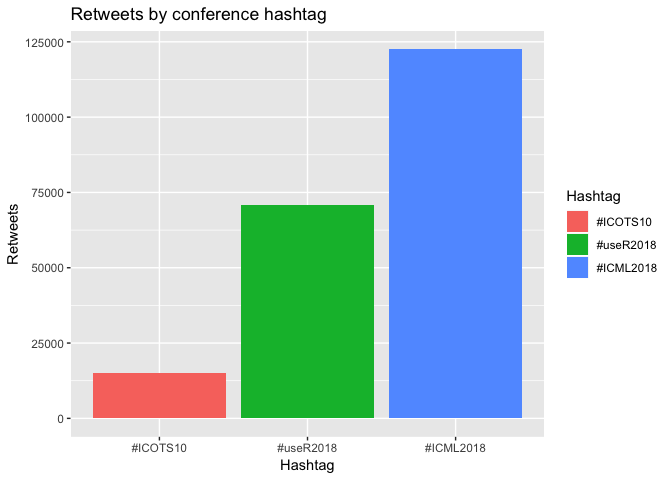
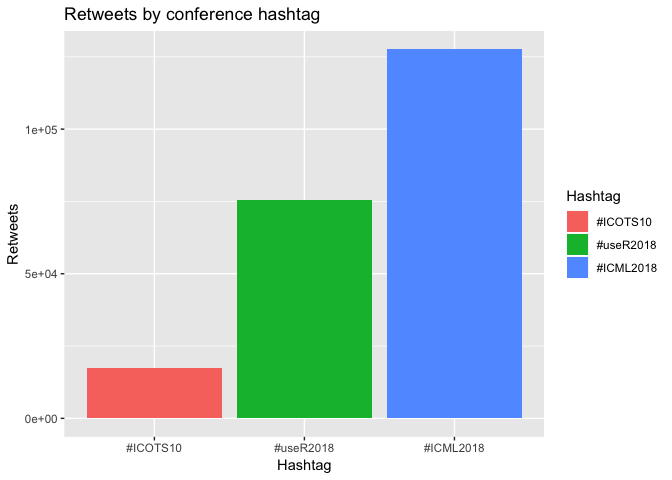
Final tweets

diff --git a/images/conferencetweets_files/figure-markdown_github/widgets/widget_user_emoji.html b/images/conferencetweets_files/figure-markdown_github/widgets/widget_user_emoji.html
@@ -16,12 +16,12 @@
 </head>
 <body style="background-color:white;">
 <div id="htmlwidget_container">
-  <div id="htmlwidget-7459d6a4c7c466d616c2" style="width:100%;height:500px;" class="datatables html-widget"></div>
+  <div id="htmlwidget-74ba921d51a8d4b37e08" style="width:100%;height:500px;" class="datatables html-widget"></div>
   <script>HTMLWidgets.pymChild = new pym.Child();HTMLWidgets.addPostRenderHandler(function(){
                                 setTimeout(function(){HTMLWidgets.pymChild.sendHeight();},100);
                             });</script>
 </div>
-<script type="application/json" data-for="htmlwidget-7459d6a4c7c466d616c2">{"x":{"filter":"none","data":[["1","2","3","4","5","6","7","8","9","10","11","12","13","14","15","16","17","18","19","20","21","22","23","24","25","26","27","28","29","30","31","32","33","34","35","36","37","38","39","40","41","42","43","44","45","46","47","48","49","50","51","52","53","54","55","56","57","58","59","60","61","62","63","64","65","66","67","68","69","70","71","72","73","74","75","76","77","78","79","80","81","82","83","84","85","86","87","88","89","90","91","92","93","94","95","96","97","98","99","100","101","102","103","104"],["📦","🏉","👌","😂","😍","👍","🌧","🔥","🤩","👏","🎉","🤣","👨","✅","🙌","♂","😎","😭","🏊","🎨","🎥","🏹","☑","😁","☺","😳","🤓","👧","👑","🍰","🌟","♀","🇦🇺","😀","😅","😆","🙄","😜","😢","👶","🤦","🙏","👟","🕸","🥄","🚦","⛴","✈","🕰","☀","🌩","⚡","✨","🏏","🎶","💡","🖌","📈","📉","🔁","🇿🇦","🏼","😊","🙂","🤗","😫","😨","😬","🤕","😻","🎅","🙅","🤷","👉","👆","👇","✌","💜","💣","💥","🧦","🐈","🦄","🐦","🥖","🍺","🥂","🚥","⌚","🌊","📲","💻","🖥","⌨","🖱","📽","📹","💯","🆒","🔺","🇫🇷","🇯🇵","👶🏼","🙌🏼"],["package","rugby football","OK hand","face with tears of joy","smiling face with heart-eyes","thumbs up","cloud with rain","fire","star-struck","clapping hands","party popper","rolling on the floor laughing","man","white heavy check mark","raising hands","male sign","smiling face with sunglasses","loudly crying face","person swimming","artist palette","movie camera","bow and arrow","ballot box with check","beaming face with smiling eyes","smiling face","flushed face","nerd face","girl","crown","shortcake","glowing star","female sign","flag: Australia","grinning face","grinning face with sweat","grinning squinting face","face with rolling eyes","winking face with tongue","crying face","baby","person facepalming","folded hands","running shoe","spider web","spoon","vertical traffic light","ferry","airplane","mantelpiece clock","sun","cloud with lightning","high voltage","sparkles","cricket game","musical notes","light bulb","paintbrush","chart increasing","chart decreasing","repeat button","flag: South Africa","medium-light skin tone","smiling face with smiling eyes","slightly smiling face","hugging face","tired face","fearful face","grimacing face","face with head-bandage","smiling cat face with heart-eyes","Santa Claus","person gesturing NO","person shrugging","backhand index pointing right","backhand index pointing up","backhand index pointing down","victory hand","purple heart","bomb","collision","socks","cat","unicorn face","bird","baguette bread","beer mug","clinking glasses","horizontal traffic light","watch","water wave","mobile phone with arrow","laptop computer","desktop computer","keyboard","computer mouse","film projector","video camera","hundred points","COOL button","red triangle pointed up","flag: France","flag: Japan","baby: medium-light skin tone","raising hands: medium-light skin tone"],[25,18,12,10,10,10,9,8,7,7,7,6,6,6,5,5,4,4,4,4,4,4,4,3,3,3,3,3,3,3,3,3,3,2,2,2,2,2,2,2,2,2,2,2,2,2,2,2,2,2,2,2,2,2,2,2,2,2,2,2,2,2,1,1,1,1,1,1,1,1,1,1,1,1,1,1,1,1,1,1,1,1,1,1,1,1,1,1,1,1,1,1,1,1,1,1,1,1,1,1,1,1,1,1],[1,2,3,5,5,5,7,8,10,10,10,13,13,13,16,16,20,20,20,20,20,20,20,28,28,28,28,28,28,28,28,28,28,48,48,48,48,48,48,48,48,48,48,48,48,48,48,48,48,48,48,48,48,48,48,48,48,48,48,48,48,48,84,84,84,84,84,84,84,84,84,84,84,84,84,84,84,84,84,84,84,84,84,84,84,84,84,84,84,84,84,84,84,84,84,84,84,84,84,84,84,84,84,84],[23,2,8,9,8,8,1,4,7,4,5,6,6,3,5,4,4,3,2,4,4,1,1,3,3,3,3,3,3,3,2,3,3,2,2,2,2,2,2,2,2,2,2,2,2,1,2,2,2,2,2,2,2,2,1,2,2,2,2,2,2,2,1,1,1,1,1,1,1,1,1,1,1,1,1,1,1,1,1,1,1,1,1,1,1,1,1,1,1,1,1,1,1,1,1,1,1,1,1,1,1,1,1,1],[1,42,4,2,4,4,81,14,6,14,10,8,8,22,10,14,14,22,42,14,14,81,81,22,22,22,22,22,22,22,42,22,22,42,42,42,42,42,42,42,42,42,42,42,42,81,42,42,42,42,42,42,42,42,81,42,42,42,42,42,42,42,81,81,81,81,81,81,81,81,81,81,81,81,81,81,81,81,81,81,81,81,81,81,81,81,81,81,81,81,81,81,81,81,81,81,81,81,81,81,81,81,81,81]],"container":"<table class=\"display\">\n  <thead>\n    <tr>\n      <th> <\/th>\n      <th>emoji<\/th>\n      <th>short_name<\/th>\n      <th>counts<\/th>\n      <th>rank<\/th>\n      <th>counts_single<\/th>\n      <th>rank_single<\/th>\n    <\/tr>\n  <\/thead>\n<\/table>","options":{"columnDefs":[{"className":"dt-right","targets":[3,4,5,6]},{"orderable":false,"targets":0}],"order":[],"autoWidth":false,"orderClasses":false}},"evals":[],"jsHooks":[]}</script>
-<script type="application/htmlwidget-sizing" data-for="htmlwidget-7459d6a4c7c466d616c2">{"viewer":{"width":"100%","height":350,"padding":0,"fill":false},"browser":{"width":"100%","height":500,"padding":0,"fill":false}}</script>
+<script type="application/json" data-for="htmlwidget-74ba921d51a8d4b37e08">{"x":{"filter":"none","data":[["1","2","3","4","5","6","7","8","9","10","11","12","13","14","15","16","17","18","19","20","21","22","23","24","25","26","27","28","29","30","31","32","33","34","35","36","37","38","39","40","41","42","43","44","45","46","47","48","49","50","51","52","53","54","55","56","57","58","59","60","61","62","63","64","65","66","67","68","69","70","71","72","73","74","75","76","77","78","79","80","81","82","83","84","85","86","87","88","89","90","91","92","93","94","95","96"],["📦","😂","😍","👍","👏","🔥","🤩","👌","🎉","👨","🙌","🤣","❤","😀","😎","😭","🎨","🎶","🎥","✅","☑","😁","☺","😳","🤓","👧","🙅","👑","🍰","🌟","♀","♂","🇦🇺","😅","😆","😜","😢","🤦","👆","✌","🙏","👟","🕸","✈","☀","🌩","⚡","✨","🏏","💡","🖌","🇫🇷","🇿🇦","😊","🙂","🤗","🙄","😫","🙃","😨","😬","😱","🤕","😻","👶","🎅","🤷","👉","👇","🤙","👋","💜","💣","💥","🧦","🐈","🐦","🥖","🍷","🍹","🍺","🥂","⛴","⌚","🌊","♥","📲","💻","🖥","⌨","🖱","📽","📹","💯","🔺","🇯🇵"],["package","face with tears of joy","smiling face with heart-eyes","thumbs up","clapping hands","fire","star-struck","OK hand","party popper","man","raising hands","rolling on the floor laughing","red heart","grinning face","smiling face with sunglasses","loudly crying face","artist palette","musical notes","movie camera","white heavy check mark","ballot box with check","beaming face with smiling eyes","smiling face","flushed face","nerd face","girl","person gesturing NO","crown","shortcake","glowing star","female sign","male sign","flag: Australia","grinning face with sweat","grinning squinting face","winking face with tongue","crying face","person facepalming","backhand index pointing up","victory hand","folded hands","running shoe","spider web","airplane","sun","cloud with lightning","high voltage","sparkles","cricket game","light bulb","paintbrush","flag: France","flag: South Africa","smiling face with smiling eyes","slightly smiling face","hugging face","face with rolling eyes","tired face","upside-down face","fearful face","grimacing face","face screaming in fear","face with head-bandage","smiling cat face with heart-eyes","baby","Santa Claus","person shrugging","backhand index pointing right","backhand index pointing down","call me hand","waving hand","purple heart","bomb","collision","socks","cat","bird","baguette bread","wine glass","tropical drink","beer mug","clinking glasses","ferry","watch","water wave","heart suit","mobile phone with arrow","laptop computer","desktop computer","keyboard","computer mouse","film projector","video camera","hundred points","red triangle pointed up","flag: Japan"],[26,12,11,9,9,8,7,7,7,6,6,5,5,4,4,4,4,4,4,4,4,3,3,3,3,3,3,3,3,3,3,3,3,2,2,2,2,2,2,2,2,2,2,2,2,2,2,2,2,2,2,2,2,1,1,1,1,1,1,1,1,1,1,1,1,1,1,1,1,1,1,1,1,1,1,1,1,1,1,1,1,1,1,1,1,1,1,1,1,1,1,1,1,1,1,1],[1,2,3,4,4,6,8,8,8,10,10,12,12,18,18,18,18,18,18,18,18,28,28,28,28,28,28,28,28,28,28,28,28,44,44,44,44,44,44,44,44,44,44,44,44,44,44,44,44,44,44,44,44,75,75,75,75,75,75,75,75,75,75,75,75,75,75,75,75,75,75,75,75,75,75,75,75,75,75,75,75,75,75,75,75,75,75,75,75,75,75,75,75,75,75,75],[24,10,9,7,6,4,7,7,5,6,6,5,3,4,4,3,4,2,4,1,1,3,3,3,3,3,3,3,3,2,3,2,3,2,2,2,2,2,2,2,2,2,2,2,2,2,2,2,2,2,2,2,2,1,1,1,1,1,1,1,1,1,1,1,1,1,1,1,1,1,1,1,1,1,1,1,1,1,1,1,1,1,1,1,1,1,1,1,1,1,1,1,1,1,1,1],[1,2,3,5,8,14,5,5,10,8,8,10,22,14,14,22,14,40,14,74,74,22,22,22,22,22,22,22,22,40,22,40,22,40,40,40,40,40,40,40,40,40,40,40,40,40,40,40,40,40,40,40,40,74,74,74,74,74,74,74,74,74,74,74,74,74,74,74,74,74,74,74,74,74,74,74,74,74,74,74,74,74,74,74,74,74,74,74,74,74,74,74,74,74,74,74]],"container":"<table class=\"display\">\n  <thead>\n    <tr>\n      <th> <\/th>\n      <th>emoji<\/th>\n      <th>short_name<\/th>\n      <th>counts<\/th>\n      <th>rank<\/th>\n      <th>counts_single<\/th>\n      <th>rank_single<\/th>\n    <\/tr>\n  <\/thead>\n<\/table>","options":{"columnDefs":[{"className":"dt-right","targets":[3,4,5,6]},{"orderable":false,"targets":0}],"order":[],"autoWidth":false,"orderClasses":false}},"evals":[],"jsHooks":[]}</script>
+<script type="application/htmlwidget-sizing" data-for="htmlwidget-74ba921d51a8d4b37e08">{"viewer":{"width":"100%","height":350,"padding":0,"fill":false},"browser":{"width":"100%","height":500,"padding":0,"fill":false}}</script>
 </body>
 </html>

diff --git a/images/conferencetweets_files/figure-markdown_github/widgets/widget_icml_emoji.html b/images/conferencetweets_files/figure-markdown_github/widgets/widget_icml_emoji.html
@@ -16,12 +16,12 @@
 </head>
 <body style="background-color:white;">
 <div id="htmlwidget_container">
-  <div id="htmlwidget-f8e272e78b888968af23" style="width:100%;height:500px;" class="datatables html-widget"></div>
+  <div id="htmlwidget-5b2fa7a5ea0517ee7fc3" style="width:100%;height:500px;" class="datatables html-widget"></div>
   <script>HTMLWidgets.pymChild = new pym.Child();HTMLWidgets.addPostRenderHandler(function(){
                                 setTimeout(function(){HTMLWidgets.pymChild.sendHeight();},100);
                             });</script>
 </div>
-<script type="application/json" data-for="htmlwidget-f8e272e78b888968af23">{"x":{"filter":"none","data":[["1","2","3","4","5","6","7","8","9","10","11","12","13","14","15","16","17","18","19","20","21","22","23","24","25","26","27","28","29","30","31","32"],["🔥","😂","😄","😎","🤔","😔","🙌","✈","✔","🇸🇪","😁","🤣","😅","😆","😉","😞","🤪","👻","🤖","💪","👇","👏","❤","☀","🌩","⚡","🎁","⚽","💯","🇫🇷","👏🏻","🏻"],["fire","face with tears of joy","grinning face with smiling eyes","smiling face with sunglasses","thinking face","pensive face","raising hands","airplane","heavy check mark","flag: Sweden","beaming face with smiling eyes","rolling on the floor laughing","grinning face with sweat","grinning squinting face","winking face","disappointed face","zany face","ghost","robot face","flexed biceps","backhand index pointing down","clapping hands","red heart","sun","cloud with lightning","high voltage","wrapped gift","soccer ball","hundred points","flag: France","clapping hands: light skin tone","light skin tone"],[9,4,3,2,2,2,2,2,2,2,1,1,1,1,1,1,1,1,1,1,1,1,1,1,1,1,1,1,1,1,1,1],[1,2,3,7,7,7,7,7,7,7,22,22,22,22,22,22,22,22,22,22,22,22,22,22,22,22,22,22,22,22,22,22],[3,3,3,2,2,2,2,2,1,2,1,1,1,1,1,1,1,1,1,1,1,1,1,1,1,1,1,1,1,1,1,1],[2,2,2,6,6,6,6,6,21,6,21,21,21,21,21,21,21,21,21,21,21,21,21,21,21,21,21,21,21,21,21,21]],"container":"<table class=\"display\">\n  <thead>\n    <tr>\n      <th> <\/th>\n      <th>emoji<\/th>\n      <th>short_name<\/th>\n      <th>counts<\/th>\n      <th>rank<\/th>\n      <th>counts_single<\/th>\n      <th>rank_single<\/th>\n    <\/tr>\n  <\/thead>\n<\/table>","options":{"columnDefs":[{"className":"dt-right","targets":[3,4,5,6]},{"orderable":false,"targets":0}],"order":[],"autoWidth":false,"orderClasses":false}},"evals":[],"jsHooks":[]}</script>
-<script type="application/htmlwidget-sizing" data-for="htmlwidget-f8e272e78b888968af23">{"viewer":{"width":"100%","height":350,"padding":0,"fill":false},"browser":{"width":"100%","height":500,"padding":0,"fill":false}}</script>
+<script type="application/json" data-for="htmlwidget-5b2fa7a5ea0517ee7fc3">{"x":{"filter":"none","data":[["1","2","3","4","5","6","7","8","9","10","11","12","13","14","15","16","17","18","19","20","21","22","23","24","25","26","27","28","29","30","31","32"],["🔥","😂","😄","😎","🤔","😔","🙌","✈","✔","🇸🇪","😁","🤣","😅","😆","😉","😞","🤪","👻","🤖","💪","👇","👏","❤","☀","🌩","⚡","🎁","⚽","💯","🇫🇷","👏🏻","🏻"],["fire","face with tears of joy","grinning face with smiling eyes","smiling face with sunglasses","thinking face","pensive face","raising hands","airplane","heavy check mark","flag: Sweden","beaming face with smiling eyes","rolling on the floor laughing","grinning face with sweat","grinning squinting face","winking face","disappointed face","zany face","ghost","robot face","flexed biceps","backhand index pointing down","clapping hands","red heart","sun","cloud with lightning","high voltage","wrapped gift","soccer ball","hundred points","flag: France","clapping hands: light skin tone","light skin tone"],[8,4,3,2,2,2,2,2,2,2,1,1,1,1,1,1,1,1,1,1,1,1,1,1,1,1,1,1,1,1,1,1],[1,2,3,7,7,7,7,7,7,7,22,22,22,22,22,22,22,22,22,22,22,22,22,22,22,22,22,22,22,22,22,22],[2,3,3,2,2,2,2,2,1,2,1,1,1,1,1,1,1,1,1,1,1,1,1,1,1,1,1,1,1,1,1,1],[6,2,2,6,6,6,6,6,21,6,21,21,21,21,21,21,21,21,21,21,21,21,21,21,21,21,21,21,21,21,21,21]],"container":"<table class=\"display\">\n  <thead>\n    <tr>\n      <th> <\/th>\n      <th>emoji<\/th>\n      <th>short_name<\/th>\n      <th>counts<\/th>\n      <th>rank<\/th>\n      <th>counts_single<\/th>\n      <th>rank_single<\/th>\n    <\/tr>\n  <\/thead>\n<\/table>","options":{"columnDefs":[{"className":"dt-right","targets":[3,4,5,6]},{"orderable":false,"targets":0}],"order":[],"autoWidth":false,"orderClasses":false}},"evals":[],"jsHooks":[]}</script>
+<script type="application/htmlwidget-sizing" data-for="htmlwidget-5b2fa7a5ea0517ee7fc3">{"viewer":{"width":"100%","height":350,"padding":0,"fill":false},"browser":{"width":"100%","height":500,"padding":0,"fill":false}}</script>
 </body>
 </html>

diff --git a/images/conferencetweets_files/figure-markdown_github/widgets/widget_icots_emoji.html b/images/conferencetweets_files/figure-markdown_github/widgets/widget_icots_emoji.html
@@ -16,12 +16,12 @@
 </head>
 <body style="background-color:white;">
 <div id="htmlwidget_container">
-  <div id="htmlwidget-c9df82c92d497daadafe" style="width:100%;height:500px;" class="datatables html-widget"></div>
+  <div id="htmlwidget-3ded16fe8a96009df426" style="width:100%;height:500px;" class="datatables html-widget"></div>
   <script>HTMLWidgets.pymChild = new pym.Child();HTMLWidgets.addPostRenderHandler(function(){
                                 setTimeout(function(){HTMLWidgets.pymChild.sendHeight();},100);
                             });</script>
 </div>
-<script type="application/json" data-for="htmlwidget-c9df82c92d497daadafe">{"x":{"filter":"none","data":[["1","2","3","4","5","6","7","8","9","10","11","12","13","14","15","16","17","18","19","20","21"],["😍","🔥","👏","😂","😀","❤","🐱","⚡","🎨","🎼","🙂","😔","😢","👩","🗣","💥","🏫","🗼","🎸","📽","🇫🇷"],["smiling face with heart-eyes","fire","clapping hands","face with tears of joy","grinning face","red heart","cat face","high voltage","artist palette","musical score","slightly smiling face","pensive face","crying face","woman","speaking head","collision","school","Tokyo tower","guitar","film projector","flag: France"],[8,6,5,3,2,2,2,2,2,2,1,1,1,1,1,1,1,1,1,1,1],[1,2,3,4,8,8,8,8,8,8,16,16,16,16,16,16,16,16,16,16,16],[4,2,1,3,2,2,2,1,2,2,1,1,1,1,1,1,1,1,1,1,1],[1,6,15,2,6,6,6,15,6,6,15,15,15,15,15,15,15,15,15,15,15]],"container":"<table class=\"display\">\n  <thead>\n    <tr>\n      <th> <\/th>\n      <th>emoji<\/th>\n      <th>short_name<\/th>\n      <th>counts<\/th>\n      <th>rank<\/th>\n      <th>counts_single<\/th>\n      <th>rank_single<\/th>\n    <\/tr>\n  <\/thead>\n<\/table>","options":{"columnDefs":[{"className":"dt-right","targets":[3,4,5,6]},{"orderable":false,"targets":0}],"order":[],"autoWidth":false,"orderClasses":false}},"evals":[],"jsHooks":[]}</script>
-<script type="application/htmlwidget-sizing" data-for="htmlwidget-c9df82c92d497daadafe">{"viewer":{"width":"100%","height":350,"padding":0,"fill":false},"browser":{"width":"100%","height":500,"padding":0,"fill":false}}</script>
+<script type="application/json" data-for="htmlwidget-3ded16fe8a96009df426">{"x":{"filter":"none","data":[["1","2","3","4","5","6","7","8","9","10","11","12","13","14","15","16","17","18","19","20","21","22"],["😍","🔥","👏","😂","😀","❤","💜","🐱","⚡","🎨","🎼","🙂","😔","😢","👩","🗣","💥","🏫","🗼","🎸","📽","🇫🇷"],["smiling face with heart-eyes","fire","clapping hands","face with tears of joy","grinning face","red heart","purple heart","cat face","high voltage","artist palette","musical score","slightly smiling face","pensive face","crying face","woman","speaking head","collision","school","Tokyo tower","guitar","film projector","flag: France"],[8,6,5,3,2,2,2,2,2,2,2,1,1,1,1,1,1,1,1,1,1,1],[1,2,3,4,8,8,8,8,8,8,8,17,17,17,17,17,17,17,17,17,17,17],[4,2,1,3,2,2,2,2,1,2,2,1,1,1,1,1,1,1,1,1,1,1],[1,6,16,2,6,6,6,6,16,6,6,16,16,16,16,16,16,16,16,16,16,16]],"container":"<table class=\"display\">\n  <thead>\n    <tr>\n      <th> <\/th>\n      <th>emoji<\/th>\n      <th>short_name<\/th>\n      <th>counts<\/th>\n      <th>rank<\/th>\n      <th>counts_single<\/th>\n      <th>rank_single<\/th>\n    <\/tr>\n  <\/thead>\n<\/table>","options":{"columnDefs":[{"className":"dt-right","targets":[3,4,5,6]},{"orderable":false,"targets":0}],"order":[],"autoWidth":false,"orderClasses":false}},"evals":[],"jsHooks":[]}</script>
+<script type="application/htmlwidget-sizing" data-for="htmlwidget-3ded16fe8a96009df426">{"viewer":{"width":"100%","height":350,"padding":0,"fill":false},"browser":{"width":"100%","height":500,"padding":0,"fill":false}}</script>
 </body>
 </html>

diff --git a/_posts/2018-07-11-icots10-tweets.md b/_posts/2018-07-11-icots10-tweets.md
@@ -7,16 +7,6 @@ tags:
   - social-media
 ---
 
-A tweet comparing ICML and useR tweets got me thinking, and I've wanted to use the `twitteR` or `rtweet` package for a while...
-
-<blockquote class="twitter-tweet" data-lang="en">
-<p lang="en" dir="ltr">
-How does <a href="https://twitter.com/hashtag/ICOTS10?src=hash&amp;ref_src=twsrc%5Etfw">\#ICOTS10</a> measure up? <a href="https://t.co/NUC3k2XAQK">https://t.co/NUC3k2XAQK</a>
-</p>
-— Kelly Bodwin (@KellyBodwin) <a href="https://twitter.com/KellyBodwin/status/1016743797550485505?ref_src=twsrc%5Etfw">July 10, 2018</a>
-</blockquote>
-<script async src="https://platform.twitter.com/widgets.js" charset="utf-8"></script>
-
 -   [Number of tweets by conference](#number-of-tweets-by-conference)
 -   [How about number of retweets by conference?](#how-about-number-of-retweets-by-conference)
 -   [Number of favourites?](#number-of-favourites)
@@ -26,12 +16,23 @@ How does <a href="https://twitter.com/hashtag/ICOTS10?src=hash&amp;ref_src=twsrc
 -   [Emojis ❤](#emojis)
 -   [Checking if we can scrape the emoji lists](#checking-if-we-can-scrape-the-emoji-lists)
 -   [Scraping the emoji lists](#scraping-the-emoji-lists)
--   [Which emoji were the most popular?](#which-emoji-were-the most-popular)
+-   [Which emoji were the most popular?](#which-emoji-were-the-most-popular)
+    -   [Top \#ICOTS10 emojis](#top-icots10-emojis)
+    -   [Top \#useR2018 emoji](#top-user2018-emoji)
+    -   [Top \#ICML2018 emoji](#top-icml2018-emoji)
 -   [More from ICOTS](#more-from-icots)
--   [Vanity time: My best tweets?](#vanity-time-my-best-tweets)
+-   [Vanity time: My best tweet?](#vanity-time-my-best-tweet)
 
+A tweet comparing ICML and useR tweets got me thinking, and I've wanted to use the `twitteR` or `rtweet` package for a while...
 
-*Last updated:* 13 Jul approx 12:20pm Kyoto time.
+<blockquote class="twitter-tweet" data-lang="en">
+<p lang="en" dir="ltr">
+How does <a href="https://twitter.com/hashtag/ICOTS10?src=hash&amp;ref_src=twsrc%5Etfw">\#ICOTS10</a> measure up? <a href="https://t.co/NUC3k2XAQK">https://t.co/NUC3k2XAQK</a>
+</p>
+— Kelly Bodwin (@KellyBodwin) <a href="https://twitter.com/KellyBodwin/status/1016743797550485505?ref_src=twsrc%5Etfw">July 10, 2018</a>
+</blockquote>
+<script async src="https://platform.twitter.com/widgets.js" charset="utf-8"></script>
+*Last updated:* 13 Jul approx 5:20pm Kyoto time.
 
 Here are some libraries we'll use. (Also note that I made a [GitHub gist with the code to get from the beginning to the first graph](https://gist.github.com/elb0/221b98cd7f89674515f2a25a6cde5859).) I couldn't get the authentication to work for `rtweet`, unfortunately.
 
@@ -65,7 +66,7 @@ Also note, the `n =` were chosen by trial and error. Very sophisticated.
 
 {% highlight r %}
 icots = searchTwitter('#icots10', n = 1150)
-user = searchTwitter('#useR2018', n = 4000)
+user = searchTwitter('#useR2018', n = 4200)
 icml = searchTwitter('#ICML2018', n = 4200)
 
 icots_tweets = twListToDF(icots) %>%
@@ -81,7 +82,7 @@ icml_tweets = twListToDF(icml) %>%
 
 There also seemed to be lots of tweets under the ICOTS hashtag that were about Ethereum, which wasn't really related to us. I've filtered these out.
 
-And you might want to look at the dates in a different timezone setting - these conferences are all in different countries.
+And you might want to look at the dates in a different timezone setting - these conferences are all in different countries and I've just taken the time and date created information directly from the Twitter API results with no transformation.
 
 {% highlight r %}
 all_tweets = rbind(icots_tweets, user_tweets, icml_tweets) %>%
@@ -123,7 +124,7 @@ all_noRT %>%
 
 ![]({{site.baseurl}}/images/conferencetweets_files/figure-markdown_github/graph-2.png)
 
-Can you spot which day ICOTS had a half day and went exploring Kyoto and Nara instead of tweeting?
+Can you spot which day ICOTS had a half-day and folks went off exploring Kyoto or to see the deer at Nara instead of tweeting?
 
 <blockquote class="twitter-tweet" data-lang="en">
 <p lang="en" dir="ltr">
@@ -199,7 +200,7 @@ topretweetuser = toptweet %>%
   filter(Hashtag == "#useR2018")
 {% endhighlight %}
 
-Check out the most retweeted [ICOTS tweet](https://twitter.com/anyuser/status/1017571630271352832), [ICML tweet](https://twitter.com/anyuser/status/1017567971869413376) and [useR tweet](https://twitter.com/anyuser/status/1017526028221198336).
+Check out the most retweeted [ICOTS tweet](https://twitter.com/anyuser/status/1017677311200649216), [ICML tweet](https://twitter.com/anyuser/status/1017685299046969344) and [useR tweet](https://twitter.com/anyuser/status/1017665435888582656).
 
 ### The most favourites?
 
@@ -219,7 +220,7 @@ topfavuser = topfav %>%
   filter(Hashtag == "#useR2018")
 {% endhighlight %}
 
-Check out the most favourited [ICOTS tweet](https://twitter.com/anyuser/status/1017244182035849216), [ICML tweet](https://twitter.com/anyuser/status/1017059295052140544) and [useR tweet](https://twitter.com/anyuser/status/1014967711036829696).
+Check out the most favourited [ICOTS tweet](https://twitter.com/anyuser/status/1017244182035849216), [ICML tweet](https://twitter.com/anyuser/status/1017059295052140544) and [useR tweet](https://twitter.com/anyuser/status/1016860465807257600).
 
 ### Emojis ❤
 
@@ -315,18 +316,30 @@ emoji_ref = emoji_ref_interim %>%
 
 One wrinkle is that as far as I can tell, you can't stop the Twitter app from truncating tweets that have been retweeted when using twitteR. This seems possible in rtweet - but I couldn't get the authentication working. More [on the GitHub issues page](https://github.com/mkearney/rtweet/issues/179).
 
-So, I'm just going to try to make this work out by getting the untruncated.
+So, I'm just going to try to make this work out by getting all the unique tweets ("RT @username" will be in front of the retweeted ones) and then removing all the tweets that had been truncated (i.e. retweeted). If my logic is right, this should leave us with the untruncated text of all tweets, just some of them will be the retweeted version. This shouldn't effect the emojis.
 
+I am also going to remove the midway summary tweet that I shared with the current top emojis as that would increase the counts for those tweets.
+
+<blockquote class="twitter-tweet" data-lang="en">
+<p lang="en" dir="ltr">
+Top 5ish emojis from three different conferences (as of 15 mins ago). Ranked 1-5ish, left to right, in ( ) means equal counts.<a href="https://twitter.com/hashtag/ICOTS10?src=hash&amp;ref_src=twsrc%5Etfw">\#ICOTS10</a> 😍👏(😂🐱🎨🎼)<a href="https://twitter.com/hashtag/useR2018?src=hash&amp;ref_src=twsrc%5Etfw">\#useR2018</a>: 📦👌(😍🌧)<a href="https://twitter.com/hashtag/ICML2018?src=hash&amp;ref_src=twsrc%5Etfw">\#ICML2018</a>: 🔥😂(😁🤔🙌✈✔)<br><br>Code: <a href="https://t.co/yixpezWy8p">https://t.co/yixpezWy8p</a><br>Of course, this tweet will mess it up!
+</p>
+— Liza Bolton (@Liza\_Bolton) <a href="https://twitter.com/Liza_Bolton/status/1017216200697212928?ref_src=twsrc%5Etfw">July 12, 2018</a>
+</blockquote>
+<script async src="https://platform.twitter.com/widgets.js" charset="utf-8"></script>
 {% highlight r %}
 unique_icots = icots_tweets %>%
+  filter(id != 1017216200697212928) %>%
   distinct(text, .keep_all=TRUE) %>%
   filter(truncated == FALSE)
 
-unique_user = user_tweets %>%
+unique_user = user_tweets %>%   
+  filter(id != 1017216200697212928) %>%
   distinct(text, .keep_all=TRUE) %>%
   filter(truncated == FALSE)
 
 unique_icml = icml_tweets %>%
+  filter(id != 1017216200697212928) %>%
   distinct(text, .keep_all=TRUE) %>%
   filter(truncated == FALSE)
 
@@ -372,7 +385,7 @@ emoji_prop_user = sum(!is.na(emoji_spread_user$`1`))/dim(unique_user)[1]
 emoji_prop_icml = sum(!is.na(emoji_spread_icml$`1`))/dim(unique_icml)[1]
 {% endhighlight %}
 
-So 7% of ICOTS tweets had at least one emoji in them, 13% of useR tweets and 3% of ICML tweets.
+So 7% of ICOTS tweets had at least one emoji in them, 10% of useR tweets and 3% of ICML tweets.
 
 ### Which emoji were the most popular?
 
@@ -420,8 +433,8 @@ emoji_counts_icots = emoji_ref %>%
 frameWidget(DT::datatable(emoji_counts_icots))
 {% endhighlight %}
 
-<iframe src="http://blog.dataembassy.co.nz/images/conferencetweets_files/figure-markdown-github/widgets/widget_icots_emoji.html>" width="100%" height="500" style="border: none;"&gt;</iframe>
-
+<iframe src="http://blog.dataembassy.co.nz/images/conferencetweets_files/figure-markdown_github/widgets/widget_icots_emoji.html" width="100%" height="500" style="border: none;">
+</iframe>
 #### Top \#useR2018 emoji
 
 {% highlight r %}
@@ -441,9 +454,8 @@ emoji_counts_user = emoji_ref %>%
 frameWidget(DT::datatable(emoji_counts_user))
 {% endhighlight %}
 
-<iframe src="http://blog.dataembassy.co.nz/images/conferencetweets_files/figure-markdown-github/widgets/widget_user_emoji.html" width="100%" height="500" style="border: none;">
+<iframe src="http://blog.dataembassy.co.nz/images/conferencetweets_files/figure-markdown_github/widgets/widget_user_emoji.html" width="100%" height="500" style="border: none;">
 </iframe>
-
 #### Top \#ICML2018 emoji
 
 {% highlight r %}
@@ -463,17 +475,8 @@ emoji_counts_icml = emoji_ref %>%
 frameWidget(DT::datatable(emoji_counts_icml))
 {% endhighlight %}
 
-<iframe src="http://blog.dataembassy.co.nz/images/conferencetweets_files/figure-markdown-github/widgets/widget_icml_emoji.html" width="100%" height="500" style="border: none;">
+<iframe src="http://blog.dataembassy.co.nz/images/conferencetweets_files/figure-markdown_github/widgets/widget_icml_emoji.html" width="100%" height="500" style="border: none;">
 </iframe>
-
-Previous tops here:
-<blockquote class="twitter-tweet" data-lang="en">
-<p lang="en" dir="ltr">
-Top 5ish emojis from three different conferences (as of 15 mins ago). Ranked 1-5ish, left to right, in ( ) means equal counts.<a href="https://twitter.com/hashtag/ICOTS10?src=hash&amp;ref_src=twsrc%5Etfw">\#ICOTS10</a> 😍👏(😂🐱🎨🎼)<a href="https://twitter.com/hashtag/useR2018?src=hash&amp;ref_src=twsrc%5Etfw">\#useR2018</a>: 📦👌(😍🌧)<a href="https://twitter.com/hashtag/ICML2018?src=hash&amp;ref_src=twsrc%5Etfw">\#ICML2018</a>: 🔥😂(😁🤔🙌✈✔)<br><br>Code: <a href="https://t.co/yixpezWy8p">https://t.co/yixpezWy8p</a><br>Of course, this tweet will mess it up!
-</p>
-— Liza Bolton (@Liza\_Bolton) <a href="https://twitter.com/Liza_Bolton/status/1017216200697212928?ref_src=twsrc%5Etfw">July 12, 2018</a>
-</blockquote>
-<script async src="https://platform.twitter.com/widgets.js" charset="utf-8"></script>
 More from ICOTS
 ---------------
 
@@ -486,8 +489,8 @@ Delighted to be at <a href="https://twitter.com/hashtag/icots10?src=hash&amp;ref
 — Liza Bolton (@Liza\_Bolton) <a href="https://twitter.com/Liza_Bolton/status/1015879520576942080?ref_src=twsrc%5Etfw">July 8, 2018</a>
 </blockquote>
 <script async src="https://platform.twitter.com/widgets.js" charset="utf-8"></script>
-Vanity time: My best tweets?
-----------------------------
+Vanity time: My best tweet?
+---------------------------
 
 I kinda want to know which of my tweets did the best too...
 
@@ -504,6 +507,6 @@ myfavtweets = mytweets %>%
   filter(favoriteCount == max(favoriteCount))
 {% endhighlight %}
 
-[Turns out this one had the most retweets](https://twitter.com/anyuser/status/1017216822209273856), with 10 retweets and 0 favourites. Thanks guys!
+[Turns out this one was pretty good](https://twitter.com/anyuser/status/1017216822209273856), with 10 retweets and 0 favourites. Thanks guys!
 
 I tweeted 6% of the \#ICOTS10 tweets.

diff --git a/_posts/2018-07-09-icots10.md b/_posts/2018-07-09-icots10.md
@@ -37,7 +37,7 @@ by Alfred Rappaport - not sure if this was an intentional recommendation by Chri
   - [The Art of Data Science by Richard Boire](https://www.predictiveanalyticsworld.com/patimes/the-art-of-data-science/9475/)
   - [A Survey of Statistical Capstone Projects by Susan E. Martonosi and Talithia D. Williams](https://amstat.tandfonline.com/doi/full/10.1080/10691898.2016.1257927)
   - All the articles in [Hadley Wickham](https://twitter.com/hadleywickham) and [Jenny Bryan](https://twitter.com/JennyBryan)'s PeerJ Collection [Practical Data Science for Stats](https://peerj.com/collections/50-practicaldatascistats/)
-  - [Rolf Biehler's paper](https://iase-web.org/documents/intstatreview/97.Biehler.pdf) from 20 years ago on software for teaching and learnign statistics, recommended by Mine Çetinkaya-Rundel, [@minebocek](https://twitter.com/minebocek), after session 1B today.
+  - [Rolf Biehler's paper](https://iase-web.org/documents/intstatreview/97.Biehler.pdf) from 20 years ago on software for teaching and learning statistics, recommended by Mine Çetinkaya-Rundel, [@minebocek](https://twitter.com/minebocek), after session 1B today.
   <blockquote class="twitter-tweet" data-lang="en"><p lang="en" dir="ltr"><a href="https://twitter.com/hashtag/icots10?src=hash&amp;ref_src=twsrc%5Etfw">#icots10</a> session on statistical education software, revisiting and reflecting on Rolf Biehler&#39;s paper on this topic from 20 years ago! <a href="https://t.co/XrCulaHyvX">https://t.co/XrCulaHyvX</a></p>&mdash; Mine CetinkayaRundel (@minebocek) <a href="https://twitter.com/minebocek/status/1017228067150786560?ref_src=twsrc%5Etfw">July 12, 2018</a></blockquote>
 <script async src="https://platform.twitter.com/widgets.js" charset="utf-8"></script>
 - I asked philosopher Karen François what article of a philosophical nature she would want all statisticians to read, and she recommended ["Beyond subjective and objective in statistics" by Andrew Gelman and Christian Hennig](https://doi.org/10.1111/rssa.12276). She also references ["The ethics of algorithms: Mapping the debate" by
@@ -96,6 +96,8 @@ Follow ICOTS10 tweeps on [this list](https://twitter.com/Liza_Bolton/lists/icots
 - [statcheck](http://statcheck.io/) - see also:
 <blockquote class="twitter-tweet" data-lang="en"><p lang="en" dir="ltr">A Spellchecker For Statistics<br>Nature Vol. 540 December 2016 <a href="https://t.co/cDN2fTtNVW">https://t.co/cDN2fTtNVW</a><a href="https://twitter.com/hashtag/ICOTS10?src=hash&amp;ref_src=twsrc%5Etfw">#ICOTS10</a> <a href="https://twitter.com/hashtag/Topic8?src=hash&amp;ref_src=twsrc%5Etfw">#Topic8</a> <a href="https://twitter.com/hashtag/Session8B?src=hash&amp;ref_src=twsrc%5Etfw">#Session8B</a> <a href="https://twitter.com/hashtag/InferenceInTimesOfCrisisPart2?src=hash&amp;ref_src=twsrc%5Etfw">#InferenceInTimesOfCrisisPart2</a></p>&mdash; Egan J Chernoff (@MatthewMaddux) <a href="https://twitter.com/MatthewMaddux/status/1016564102024519681?ref_src=twsrc%5Etfw">July 10, 2018</a></blockquote>
 <script async src="https://platform.twitter.com/widgets.js" charset="utf-8"></script>
+- [Tableau](https://www.tableau.com/academic/students) is free for students and academic use and Stacey Hancock's talk on ["Infusing Data Visualization into
+Intro Stat Using Tableau"](http://www.math.montana.edu/shancock/documents/Hancock-ICOTS2018.pdf) has some great examples and details of assessment.
 
 ## Conferences
 Where do ICOTS folk go between ICOTS? [Send me your recommendations!](https://twitter.com/Liza_Bolton).
